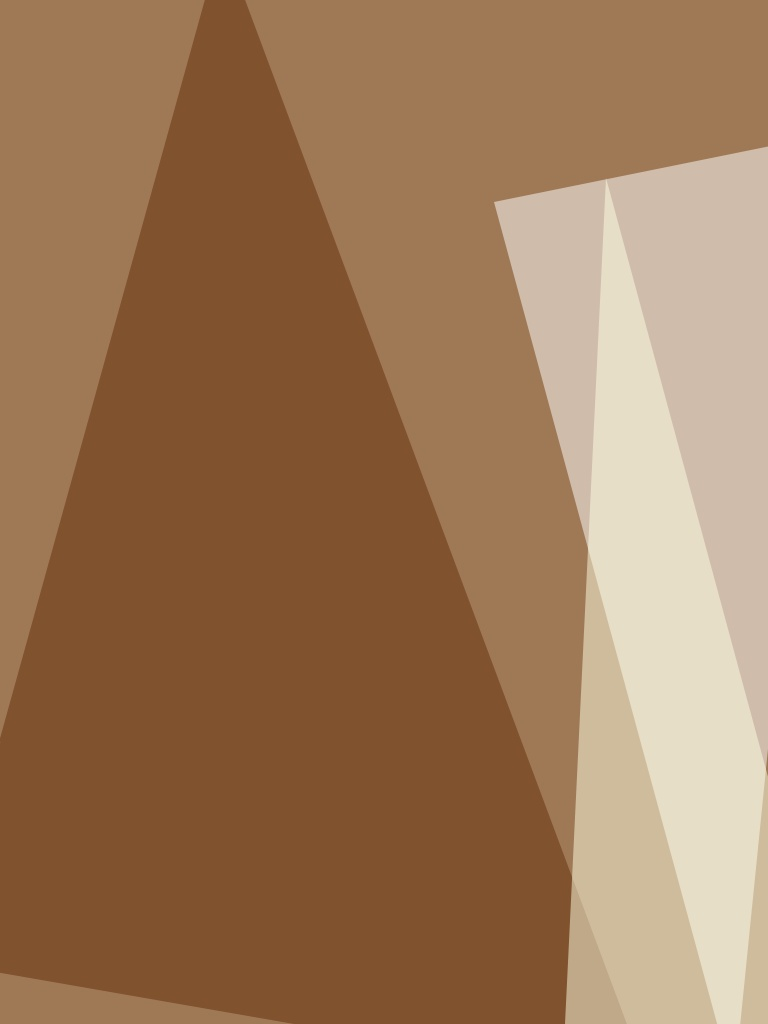
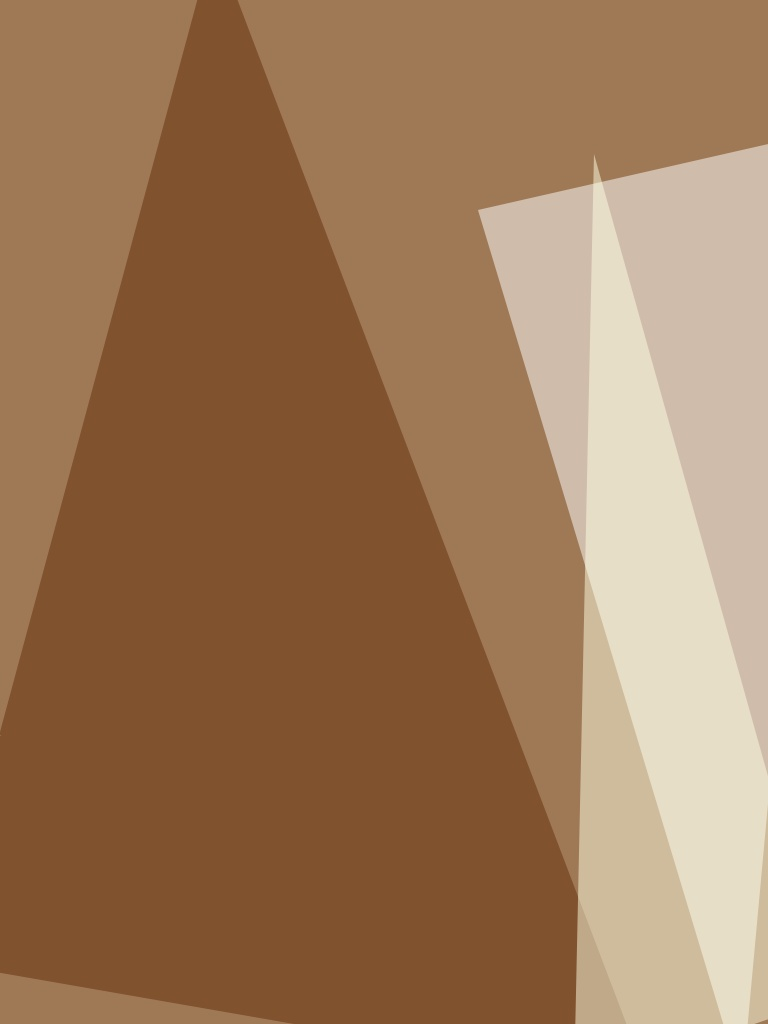
rudimentary distance checking for triangles

diff --git a/primitive/model.go b/primitive/model.go
@@ -4,6 +4,7 @@ import (
 	"fmt"
 	"image"
 	"strings"
+	"math"
 
 	"github.com/fogleman/gg"
 )
@@ -130,11 +131,14 @@ func (model *Model) Step(shapeType ShapeType, alpha, repeat int) int {
 	var state *State
 	if model.Previous != nil {
 		currentShapeIndex := len(model.Shapes)
-		fmt.Printf("Previous shape at %d was %d", currentShapeIndex, model.Previous.Shapes[currentShapeIndex])
+		
 		PreviousShapeDef = model.Previous.Shapes[currentShapeIndex].Definition()
-		state = model.runWorkers(shapeType,alpha, 1000, 100, 16)
-		scalingFactor := math.Max(model.Sw, model.Sh)
-		fmt.Printf(" Distance is %f at scale %v width %v \n",state.Shape.Distance(PreviousShapeDef), model.Scale, model.Sw)
+		fmt.Printf("Previous shape at %d was %d", currentShapeIndex, PreviousShapeDef)
+		state = model.runWorkersWithPreviousShape(shapeType,alpha, 1000, 100, 16, PreviousShapeDef)
+		scalingFactor := math.Max(float64(model.Sw), float64(model.Sh))
+		distance := state.Shape.Distance(PreviousShapeDef) / scalingFactor
+		fmt.Printf(" Distance is %f at scale %v width %v \n",distance, scalingFactor, model.Sw)
+		
 	} else {
 	
 		state = model.runWorkers(shapeType, alpha, 1000, 100, 16)
@@ -175,6 +179,32 @@ func (model *Model) runWorkers(t ShapeType, a, n, age, m int) *State {
 	for i := 0; i < wn; i++ {
 		worker := model.Workers[i]
 		worker.Init(model.Current, model.Score)
+		go model.runWorker(worker, t, a, n, age, wm, ch)
+	}
+	var bestEnergy float64
+	var bestState *State
+	for i := 0; i < wn; i++ {
+		state := <-ch
+		energy := state.Energy()
+		if i == 0 || energy < bestEnergy {
+			bestEnergy = energy
+			bestState = state
+		}
+	}
+	return bestState
+}
+
+func (model *Model) runWorkersWithPreviousShape(t ShapeType, a, n, age, m int, sd ShapeDef) *State {
+	wn := len(model.Workers)    //number of workers
+	ch := make(chan *State, wn) //channel
+	wm := m / wn                //attemps per worker?
+	if m%wn != 0 {
+		wm++
+	}
+	for i := 0; i < wn; i++ {
+		worker := model.Workers[i]
+		worker.Init(model.Current, model.Score)
+		worker.SetPreviousShape(sd)
 		go model.runWorker(worker, t, a, n, age, wm, ch)
 	}
 	var bestEnergy float64

diff --git a/primitive/worker.go b/primitive/worker.go
@@ -4,7 +4,6 @@ import (
 	"image"
 	"math/rand"
 	"time"
-
 	"github.com/golang/freetype/raster"
 )
 
@@ -19,6 +18,7 @@ type Worker struct {
 	Rnd        *rand.Rand
 	Score      float64
 	Counter    int
+	Previous   ShapeDef
 }
 
 func NewWorker(target *image.RGBA) *Worker {
@@ -40,7 +40,12 @@ func (worker *Worker) Init(current *image.RGBA, score float64) {
 	worker.Current = current
 	worker.Score = score
 	worker.Counter = 0
+	worker.Previous.ShType=ShapeTypeAny
 	worker.Heatmap.Clear()
+}
+
+func (worker *Worker) SetPreviousShape(prev ShapeDef) {
+	worker.Previous = prev
 }
 
 func (worker *Worker) Energy(shape Shape, alpha int) float64 {
@@ -50,7 +55,13 @@ func (worker *Worker) Energy(shape Shape, alpha int) float64 {
 	color := computeColor(worker.Target, worker.Current, lines, alpha)
 	copyLines(worker.Buffer, worker.Current, lines)
 	drawLines(worker.Buffer, color, lines)
-	return differencePartial(worker.Target, worker.Current, worker.Buffer, worker.Score, lines)
+	if worker.Previous.ShType != ShapeTypeAny {
+		distance := shape.Distance(worker.Previous) / (float64(worker.W)*float64(worker.H))
+		//fmt.Printf("New shape has difference of %f\n",distance)
+		return distance + differencePartial(worker.Target, worker.Current, worker.Buffer, worker.Score, lines)
+	} else {
+		return differencePartial(worker.Target, worker.Current, worker.Buffer, worker.Score, lines)
+	}
 }
 
 func (worker *Worker) BestHillClimbState(t ShapeType, a, n, age, m int) *State {
